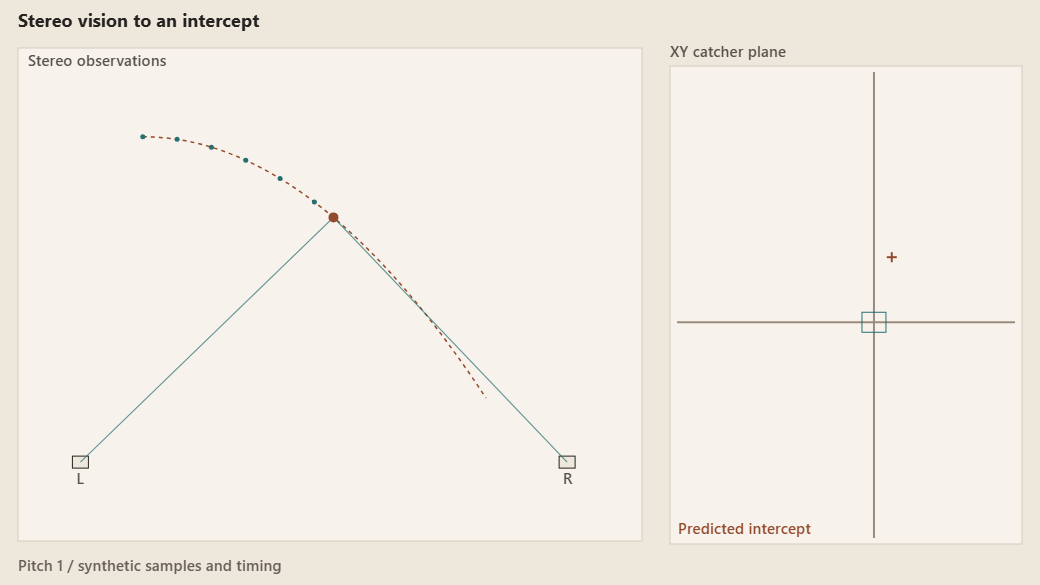
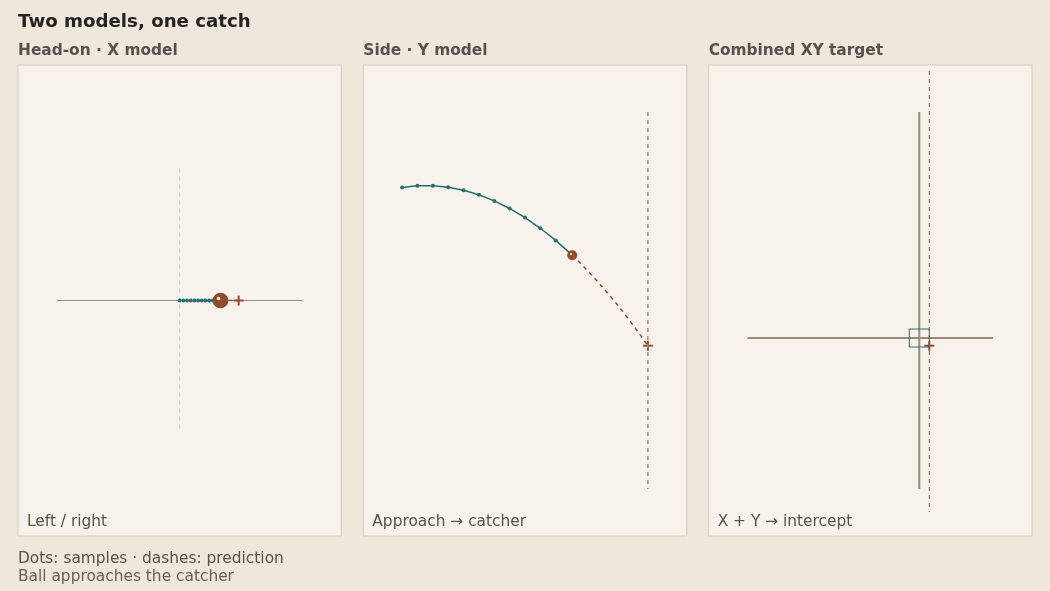
Explain catcher lateral and elevation models and add project background

diff --git a/assets/js/figures/baseball-catcher.js b/assets/js/figures/baseball-catcher.js
@@ -1,32 +1,65 @@
-/* Original schematic stereo triangulation and catch-plane prediction. */
+/* Two synchronized schematic models of one pitch; not recorded model output. */
 (function(){
   'use strict';var D=Fig.diagram;
+  function sample(q,pitch){
+    var lateral=[.24,-.23,.10][pitch],height=[.38,.54,.25][pitch];
+    return {x:lateral*q,y:.80+.10*q+(height-.90)*q*q};
+  }
   Fig.register('baseball-catcher',{
-    config:{mobileAspect:.9,stillAt:5},
+    config:{mobileAspect:.62,stillAt:5},
     setup:function(f){f.state.pitch=0;f.button('Switch pitch',function(){f.state.pitch=(f.state.pitch+1)%3;f.restart(true);});},
     reset:function(){},
     draw:function(f,t){
-      var C=f.c,c=f.ctx,narrow=f.w<480;D.start(f,'Stereo vision to an intercept');
-      var phase=f.compact?.68:(t%9)/9,variant=f.state.pitch;
-      var field={x:18,y:48,w:narrow?f.w-36:f.w*.60,h:narrow?f.h*.43:f.h-92};
-      D.box(f,field.x,field.y,field.w,field.h,C.line,C.bg);
-      var a={x:field.x+field.w*.10,y:field.y+field.h*.84},b={x:field.x+field.w*.88,y:field.y+field.h*.84};
-      [a,b].forEach(function(p,i){D.box(f,p.x-8,p.y-6,16,12,C.ink,C.sunk);D.text(f,i?'R':'L',p.x-4,p.y+22,C.ink2,11);});
-      function trajectory(q){return {x:field.x+field.w*(.20+q*(.55-variant*.06)),y:field.y+field.h*(.18+.53*q*q)};}
-      var sample=trajectory(phase),path=[],observed=[];
-      for(var i=0;i<=40;i++){var p=trajectory(i/40);path.push(p);if(i/40<=phase&&i%4===0)observed.push(p);}
-      D.line(f,path,C.accent,1.5,true);D.line(f,[a,sample,b],f.alpha(C.signal,.7),1.2);
-      observed.forEach(function(p){D.dot(f,p.x,p.y,2.5,C.signal);});D.dot(f,sample.x,sample.y,5,C.accent);
-      D.text(f,'Stereo observations',field.x+10,field.y+18,C.ink2,11);
-      var xx=narrow?18:field.x+field.w+28,yy=narrow?field.y+field.h+34:field.y+18,ww=narrow?f.w-36:f.w-xx-18,hh=narrow?f.h-yy-29:field.h-15;
-      D.text(f,'XY catcher plane',xx,yy-9,C.ink2,11);D.box(f,xx,yy,ww,hh,C.line,C.bg);
-      var hit={x:xx+ww*(.63-variant*.12),y:yy+hh*(.40+variant*.12)},move=Math.min(1,Math.max(0,(phase-.25)/.5));
-      var catcher={x:xx+ww*.5+(hit.x-xx-ww*.5)*move,y:yy+hh*.75+(hit.y-yy-hh*.75)*move};
-      D.line(f,[{x:xx+7,y:catcher.y},{x:xx+ww-7,y:catcher.y}],C.lineStrong,2);D.line(f,[{x:catcher.x,y:yy+6},{x:catcher.x,y:yy+hh-6}],C.lineStrong,2);
-      D.box(f,catcher.x-12,catcher.y-10,24,20,C.signal);
-      D.line(f,[{x:hit.x-5,y:hit.y},{x:hit.x+5,y:hit.y}],C.accent,2);D.line(f,[{x:hit.x,y:hit.y-5},{x:hit.x,y:hit.y+5}],C.accent,2);
-      D.text(f,'Predicted intercept',xx+8,yy+hh-10,C.accent,11);
-      if(!narrow)D.text(f,'Pitch '+(variant+1)+' / synthetic samples and timing',18,f.h-14,C.ink3,11);
+      var C=f.c,c=f.ctx,narrow=f.w<480;
+      D.start(f,'Two models, one catch');
+      var q=f.compact?.68:Math.min(1,(t%9)/6.5),pitch=f.state.pitch;
+      var current=sample(q,pitch),target=sample(1,pitch),ready=q>=.22;
+      var move=Math.min(1,Math.max(0,(q-.22)/.64));move=move*move*(3-2*move);
+      var catcher={x:target.x*move,y:.5+(target.y-.5)*move};
+      var gap=22,margin=18,top=65,bottom=55,panels=[];
+      if(narrow){
+        var height=(f.h-top-bottom-gap*2)/3;
+        for(var i=0;i<3;i++)panels.push({x:margin,y:top+i*(height+gap),w:f.w-margin*2,h:height});
+      }else{
+        var width=(f.w-margin*2-gap*2)/3;
+        for(var j=0;j<3;j++)panels.push({x:margin+j*(width+gap),y:top,w:width,h:f.h-top-bottom});
+      }
+      function frame(p,title){D.text(f,title,p.x,p.y-10,C.ink2,11,650);D.box(f,p.x,p.y,p.w,p.h,C.line,C.bg);}
+      function xy(p,x,y){return {x:p.x+p.w*(.12+.76*x),y:p.y+p.h*(.10+.80*y)};}
+      function cross(p,color){D.line(f,[{x:p.x-5,y:p.y},{x:p.x+5,y:p.y}],color,2);D.line(f,[{x:p.x,y:p.y-5},{x:p.x,y:p.y+5}],color,2);}
+      function ball(p,r){D.dot(f,p.x,p.y,r,C.accent);D.dot(f,p.x-r*.25,p.y-r*.25,Math.max(1,r*.22),C.bg);}
+      var front=panels[0],side=panels[1],plane=panels[2];
+      frame(front,'Head-on · X model');frame(side,'Side · Y model');frame(plane,'Combined XY target');
+      var frontBall=xy(front,.5+current.x,.5),frontHit=xy(front,.5+target.x,.5);
+      D.line(f,[xy(front,0,.5),xy(front,1,.5)],C.lineStrong,1);
+      D.line(f,[xy(front,.5,.15),xy(front,.5,.85)],C.line,1,true);
+      if(ready){D.line(f,[frontBall,frontHit],C.accent,1.5,true);cross(frontHit,C.accent);}
+      var frontPoints=[],sidePoints=[];
+      for(var n=0;n<=16;n++){
+        var u=n/16;if(u>q)break;var point=sample(u,pitch);
+        frontPoints.push(xy(front,.5+point.x,.5));sidePoints.push(xy(side,u,1-point.y));
+      }
+      frontPoints.forEach(function(p){D.dot(f,p.x,p.y,2,C.signal);});
+      ball(frontBall,3+q*7);
+      D.text(f,'Left / right',front.x+9,front.y+front.h-10,C.ink2,11);
+      var sideBall=xy(side,q,1-current.y),sideHit=xy(side,1,1-target.y),prediction=[];
+      for(var k=0;k<=32;k++){var v=k/32;if(v>=q)prediction.push(xy(side,v,1-sample(v,pitch).y));}
+      if(ready){D.line(f,[sideBall].concat(prediction),C.accent,1.5,true);cross(sideHit,C.accent);}
+      D.line(f,[xy(side,1,0),xy(side,1,1)],C.lineStrong,1.5,true);
+      D.line(f,sidePoints,C.signal,1.5);
+      sidePoints.forEach(function(p){D.dot(f,p.x,p.y,2,C.signal);});ball(sideBall,5);
+      D.text(f,'Approach → catcher',side.x+9,side.y+side.h-10,C.ink2,11);
+      var hit=xy(plane,.5+target.x,1-target.y),catchPoint=xy(plane,.5+catcher.x,1-catcher.y);
+      D.line(f,[xy(plane,0,1-catcher.y),xy(plane,1,1-catcher.y)],C.lineStrong,2);
+      D.line(f,[xy(plane,.5+catcher.x,0),xy(plane,.5+catcher.x,1)],C.lineStrong,2);
+      if(ready){D.line(f,[{x:hit.x,y:plane.y+6},{x:hit.x,y:plane.y+plane.h-24}],C.accent,1,true);cross(hit,C.accent);}
+      D.box(f,catchPoint.x-10,catchPoint.y-9,20,18,C.signal);
+      if(q===1)ball(hit,6);
+      D.text(f,ready?'X + Y → intercept':'Collecting samples',plane.x+9,plane.y+plane.h-10,C.ink2,11);
+      D.text(f,'Dots: samples · dashes: prediction',18,f.h-28,C.ink2,11);
+      D.text(f,q===1?'Caught · illustrative pitch '+(pitch+1):'Ball approaches the catcher',18,f.h-10,C.ink3,11);
+      // Expose the same coordinates used by the drawings for synchronization checks.
+      f.state.projection={q:q,x:current.x,y:current.y,targetX:target.x,targetY:target.y,catcherX:catcher.x,catcherY:catcher.y};
     }
   });
 })();

diff --git a/_layouts/project-background.html b/_layouts/project-background.html
@@ -10,14 +10,15 @@ layout: base
     <p class="authors">{{ project.authors }}</p>
     <p class="venue">{{ project.venue }}{% if project.year %} · {{ project.year }}{% endif %}</p>
     {% if project.credit_note %}<p class="credit">{{ project.credit_note }}</p>{% endif %}
-    {% for resource in project.links %}{% if resource.text == 'Demo' %}<a href="{{ resource.url | escape }}">Watch the race</a>{% endif %}{% endfor %}
+    {% for resource in project.links %}{% if resource.text == 'Demo' %}<a href="{{ resource.url | escape }}">{{ page.demo_label | default: 'Watch the race' }}</a>{% endif %}{% endfor %}
   </header>
   <figure class="story-preview">
-    <a href="{{ '/' | relative_url }}#details-{{ page.project_slug }}" aria-label="Open the interactive racer figure"><img src="{{ project.figure | relative_url }}" alt="{{ project.fig_label | escape }}" width="1040" height="585"></a>
-    <figcaption>Illustrative track and planning view. <a href="{{ '/' | relative_url }}#details-{{ page.project_slug }}">Explore the interactive figure</a>.</figcaption>
+    <a href="{{ '/' | relative_url }}#details-{{ page.project_slug }}" aria-label="Open the interactive {{ page.title | escape }} figure"><img src="{{ project.figure | relative_url }}" alt="{{ project.fig_label | escape }}" width="1040" height="585"></a>
+    <figcaption>{{ page.preview_caption | default: "Illustrative track and planning view." }} <a href="{{ '/' | relative_url }}#details-{{ page.project_slug }}">Explore the interactive figure</a>.</figcaption>
   </figure>
   <div class="story-body">{{ content }}</div>
-  {% assign gallery = site.data.rc_racer.images %}
+  {% assign gallery_key = page.gallery_key | default: 'rc_racer' %}
+  {% assign gallery = site.data[gallery_key].images %}
   <section class="story-gallery" aria-labelledby="gallery-heading">
     <h2 id="gallery-heading">Project images</h2>
     {% for item in gallery %}<figure><img src="{{ item.path | relative_url }}" alt="{{ item.alt | escape }}" width="{{ item.width }}" height="{{ item.height }}" style="max-width: {{ item.width }}px" loading="lazy"><figcaption>{{ item.caption | escape }}</figcaption></figure>{% else %}<p class="empty-state">Project photographs and image-processing frames to be added.</p>{% endfor %}

diff --git a/projects/baseball-catcher.md b/projects/baseball-catcher.md
@@ -1,0 +1,40 @@
+---
+layout: project-background
+title: Robot Baseball Catcher
+project_slug: baseball-catcher
+permalink: /projects/baseball-catcher/
+gallery_key: baseball_catcher
+demo_label: Watch the catcher demo
+preview_caption: Illustrative head-on and side projections of one pitch, combined into an XY catch target.
+description: Stereo ball tracking and separate lateral and elevation models for an XY robot catcher.
+---
+
+## The challenge
+
+In February 2022, our three-person Robotic Vision team worked on a robot that could catch balls launched across a room. A pitching machine sent balls toward a catcher mounted on an XY linear-rail system. Stereo cameras above the catcher tracked the incoming ball so the mechanism could move to its predicted intercept.
+
+The project account describes pitches at about 25 mph and stereo tracking at 30 frames per second. The goal was to catch 20 consecutive catchable pitches, which the team achieved. “Catchable” meant within the mechanism's physical range of motion; pitches outside that range were excluded. These are results reported in the project account, not measurements from the animation.
+
+## From two images to a 3D ball position
+
+The team collected test images and calibrated the stereo cameras together, then developed individual implementations before integrating a shared solution. Detecting the ball in both images made it possible to use disparity—the difference between its image positions—to estimate its location relative to the cameras.
+
+The integrated pipeline used contour area to locate the ball. Derek Benham's initial implementation used Hough circles; his account reports that the contour approach was less susceptible to noise. The original stereo detection frame below shows a highlighted ball location in each camera image.
+
+## Two models for one pitch
+
+We ran separate models to account for lateral motion and elevation. From a head-on perspective, the ball comes toward the catcher while moving left or right. A side view makes the change in height during that approach visible. Both models refer to the same ball and the same arrival at the catcher plane.
+
+The animation separates these dimensions deliberately: the head-on X projection isolates left/right movement, and the side Y projection shows height against progress toward the catcher. Their predictions combine into one XY target. The displayed curves and samples are illustrative, rather than a replay of the project's fitted coefficients or a reconstruction of camera footage.
+
+## Predict, transform and move
+
+A least-squares prediction estimated where the ball would reach the catcher. That location had to be transformed from the cameras' coordinate frame into the mechanism's coordinate frame before commanding movement. Calibration, camera orientation, pitching-machine variability and mechanism uncertainty all affected the final result.
+
+Timeliness mattered as much as the estimate itself: waiting for more observations left less time for the mechanism to move. The accompanying figure makes this sequence visible—collect observations, predict both coordinates, then move to the shared intercept—using schematic timing.
+
+## Experiments and tradeoffs
+
+Derek's account also describes Kalman-filter and Gaussian-process regression experiments. The Kalman filter did not improve the implemented model, and Gaussian-process regression was too computationally expensive compared with the simpler least-squares approach. The original side-view Gaussian-process plot is included below as an experimental artifact; it is not the final integrated controller and does not represent Ashton's individual work.
+
+This draft preserves the shared project description. Ashton's individual contributions and the remaining teammate's name will be filled in separately.

diff --git a/VALIDATION.md b/VALIDATION.md
@@ -48,3 +48,13 @@ Rendered Impeccable review after the addition flagged the approved ivory palette
 The first-draft disconnected-looking ellipsoids were replaced with one continuous open-hand surface (5,690 vertices / 11,376 triangles). Offline topology checks confirm every mesh edge is shared by two faces and all vertices form one connected component. The generator preserves these checks for future edits. Smooth interpolated vertex lighting and a depth buffer replace the faceted painter-style rendering; the print stage clips the surface at the layer height.
 
 All four stages pass at 375/768/1440 in both themes (24 captures), with no page overflow or JavaScript errors. Selected mobile/desktop captures were visually reviewed. Reopening/restarting does not duplicate controls, and reduced motion shows the still at 13 seconds. Average measured redraw was approximately 5 ms on this host in the dedicated browser check; this is a local timing sample, not a device-wide performance guarantee. A refreshed hand PNG supplies the static fallback. Root/subpath strict builds and URL checks pass. The resource list contains only the local PDF link; the external Original report link is absent. Other projects and their assets were not changed.
+
+
+## Catcher models and background page — WSL verification
+
+- Strict Jekyll 4.4.1 production builds and `scripts/check-output.py` pass at root and `/portfolio-check`, covering four HTML pages and their local resources/cross-page anchors.
+- Head-on X and side Y projections use one synchronized pitch and feed one XY intercept. Three pitch variants reach distinct targets; catcher alignment at arrival is checked in both dimensions. Original illustrative curves are not represented as fitted project data.
+- `scripts/browser-catcher.cjs` passes 30 checks in Playwright/Chromium: 375/768/1440 Light/Dark figure/page overflow, model synchronization and arrival alignment, all four original images, repeated controls, local-page return link, reduced-motion stills, no-JS fallback, Racer gallery/label regression and no JavaScript errors. Screenshots are under ignored `artifacts/catcher-*.png`; results are in `artifacts/catcher-review-results.json`. Mobile panels stack vertically, desktop panels sit side by side. Selected captures were visually inspected.
+- The static catcher PNG was refreshed from the revised Canvas. Four source image files were decoded and their dimensions verified. The source page and same-host media were retrieved with curl; YouTube playback was not tested.
+- The browser command ran with the same explicit command-scoped sandbox exception approved for Racer. No dependency installation, sudo, system changes or publication. Coverage remains headless Chromium, not physical hardware, Safari/Firefox or screen-reader certification.
+- During test development an ambiguous no-JS image selector was narrowed to the preview image; scrolling the tall mobile figure and allowing resize to settle corrected a blank QA capture. These were test-harness corrections. Final checks passed.

diff --git a/_projects/baseball-catcher.md b/_projects/baseball-catcher.md
@@ -3,13 +3,13 @@ order: 7
 title: Robot Baseball Catcher
 authors: <strong>Ashton Palacios</strong>, Derek Benham and another teammate
 venue: Robotic Vision class, Brigham Young University
-summary: Stereo vision predicts a ball's intercept so an XY-mounted catcher can move into position.
+summary: Stereo vision and separate lateral and elevation models guide an XY-mounted catcher to the ball.
 figure_family: engineering
 figure: assets/figures/baseball-catcher.png
 fig: baseball-catcher
 fig_aspect: 16/9
-fig_label: Left and right cameras observe a pitched ball. Their viewing rays intersect at a 3D sample, a predicted path reaches the catch plane, and an XY catcher moves to the intercept.
-fig_caption: '<strong>Observe, triangulate, intercept.</strong> Stereo observations locate the ball in three dimensions. A fitted trajectory predicts its position at the catcher plane, and the XY mechanism moves to meet it. Switch the pitch to see a new target. The trajectory, samples and timings are illustrative; the animation is not real camera footage, a hardware controller or a measured catch-rate demonstration.'
+fig_label: A head-on projection shows left and right ball motion, a synchronized side view shows elevation during approach, and both models set the XY catch target.
+fig_caption: '<strong>Two models, one catch.</strong> The ball comes toward the catcher. The head-on X projection isolates left/right motion; the side Y projection shows elevation as the ball approaches. Both models predict one intercept at the catcher plane, moving the XY mechanism into position. These are views of the same pitch, not two camera feeds. Switch the pitch to change both target coordinates. The paths, samples and timing are illustrative, not recorded model output or a measured catch-rate demonstration.'
 fig_illustrative: true
 about: A three-person class team built a vision pipeline for a catcher mounted on an XY linear-rail system. Stereo images were used to detect and triangulate a pitched ball, estimate its trajectory, and transform the predicted landing point into the catcher's coordinate frame.
 year: 2022
@@ -18,7 +18,7 @@ links:
 - text: Demo
   url: https://www.youtube.com/shorts/FXYg8f1PFv4
 - text: Project background
-  url: https://drbenham.website/baseball_catcher
+  url: /projects/baseball-catcher/
 ---
 
 The team calibrated the cameras, compared individual approaches, and integrated a working solution. The source describes contour-based ball detection and a least-squares prediction in the combined system. The animation focuses on that shared pipeline rather than attributing Derek's separate Kalman-filter or Gaussian-process experiments to Ashton.

diff --git a/IMPLEMENTATION_PLAN.md b/IMPLEMENTATION_PLAN.md
@@ -169,3 +169,12 @@ All four new project entries and original Canvas explanations are implemented, b
 ### Approved hand refinement
 
 The user requested a more recognizable hand mesh and removal of the external Original report link. Replace the initial fist assembled from ellipsoids with one continuous illustrative open hand, including palm, four fingers, thumb and wrist. Preserve the four-stage pipeline and explain that it is designed geometry rather than a recovered model. Use smooth surface shading, update the static hand fallback, and retain only the local Report resource. This revision is authorized for local implementation and a checkpoint commit under the standing commit instruction.
+
+
+### Approved catcher refinement and local background
+
+The owner corrected the catcher explanation: a head-on projection isolates left/right movement as the ball approaches, and a side projection shows elevation. Two models account for these components and combine into the XY intercept. The revised original Canvas figure synchronizes both views, grows the head-on ball during approach, and moves the catcher to the same predicted coordinates. Three pitch variants, static previews and reduced-motion stills are retained. Paths, samples and timing remain explicitly illustrative.
+
+The owner authorized a local `/projects/baseball-catcher/` background page like the Racer. Curl retrieved the full authorized source page and four original images from `drbenham.website`. The draft covers stereo calibration/detection, two model components, coordinate transformation, reported catchable-pitch results and computational tradeoffs. Derek's Kalman/Gaussian-process experiments remain credited separately; no individual role is invented for Ashton. Complete third-teammate credit remains pending. The shared background layout now accepts page-specific gallery, demo label and preview caption while retaining Racer defaults. The supplied YouTube destination is preserved without opening it.
+
+Strict root/subpath builds and local resources/anchors pass. Playwright/Chromium checks at 375/768/1440 in both themes cover synchronized models, all pitch targets, gallery decoding, repeat controls, return navigation, no-JS fallback, reduced motion, Racer layout regression and no JavaScript errors. Selected mobile/desktop/tablet screenshots were visually inspected. Browser execution uses the owner's approved command-scoped exception; no sudo, system configuration changes, installation, push or deployment occurred during this revision.

diff --git a/README.md b/README.md
@@ -69,3 +69,12 @@ All new figures have exported, checked-in PNG fallback images under `assets/figu
 The hand figure uses a single connected open-hand mesh with tapered, articulated fingers, a thumb, palm and wrist. `scripts/generate-hand-mesh.py` creates `assets/js/figures/hand-mesh.js` using only Python's standard library, and validates watertight edges and a single connected component. This is original illustrative geometry; it is not a scan or the report's recovered model.
 
 The Canvas renderer interpolates vertex lighting through a reusable depth buffer, avoiding visible polygon seams. Mesh data is loaded once, only when the hand figure is present. `node scripts/browser-hand.cjs` checks the four stages at 375/768/1440 in both themes, repeated controls, reduced motion and the single local Report link. Add `--write-fallback` to refresh only the hand's PNG after an intentional mesh change. The external Original report resource was removed at the owner's request; the local PDF is retained.
+
+
+## Catcher background and two-model figure
+
+`projects/baseball-catcher.md` renders at `/projects/baseball-catcher/`. Its original source photographs/plots are configured in `_data/baseball_catcher.yml`; edit the draft and image captions there. The shared background layout reads `gallery_key`, `demo_label` and `preview_caption`, retaining the Racer's defaults when absent. Preserve Derek's experiment credits and the distinction between original images and illustrative Canvas output.
+
+`assets/js/figures/baseball-catcher.js` shows a head-on X model for left/right motion and a side Y model for elevation during approach, feeding the combined XY catch target. The schematic curves/timing are not recorded project model data. `Switch pitch` changes both target coordinates. Refresh the fallback through `node scripts/browser-catcher.cjs --write-fallback` only when intentional, then rebuild Jekyll.
+
+The browser check requires an already installed Playwright module (`PLAYWRIGHT_MODULE` may point to its absolute directory), Chromium with its debugging port at `127.0.0.1:9222`, and Jekyll at `127.0.0.1:4000`. It writes screenshots/results to ignored `artifacts/`. In this WSL session, Linux gems and Chromium are under ignored `vendor/wsl-*`; use Linux Ruby and Bundler rather than the Windows `bundle` found on PATH.
